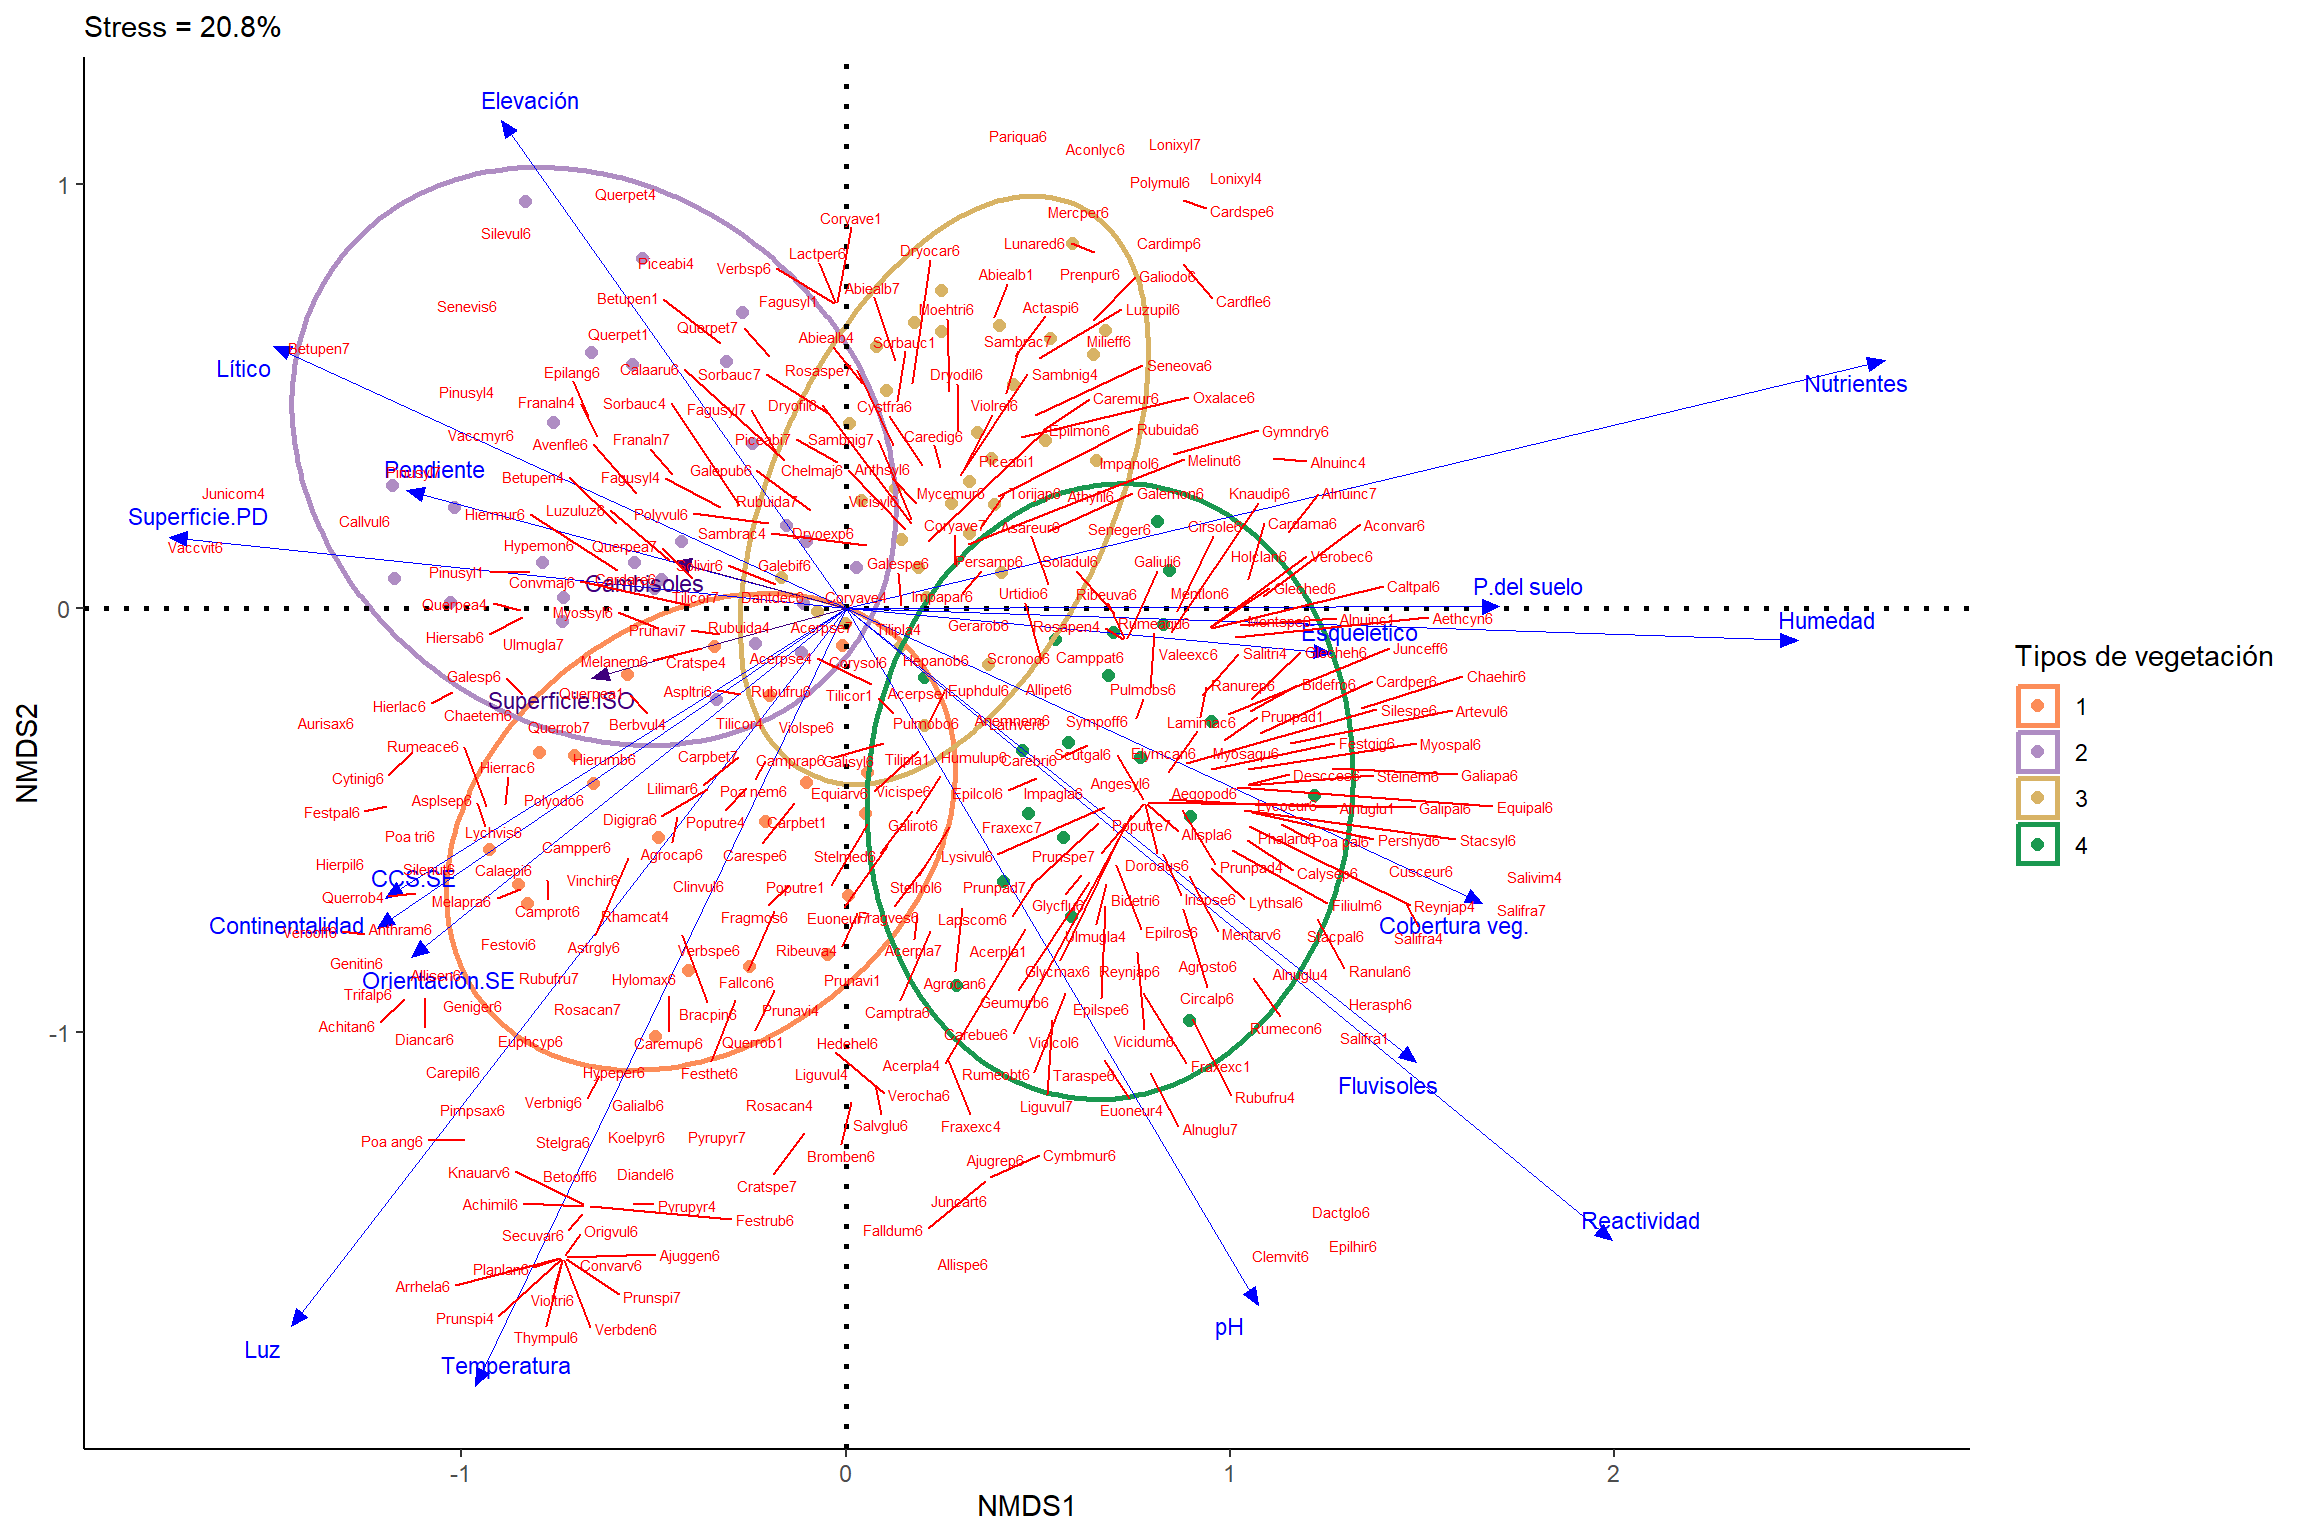
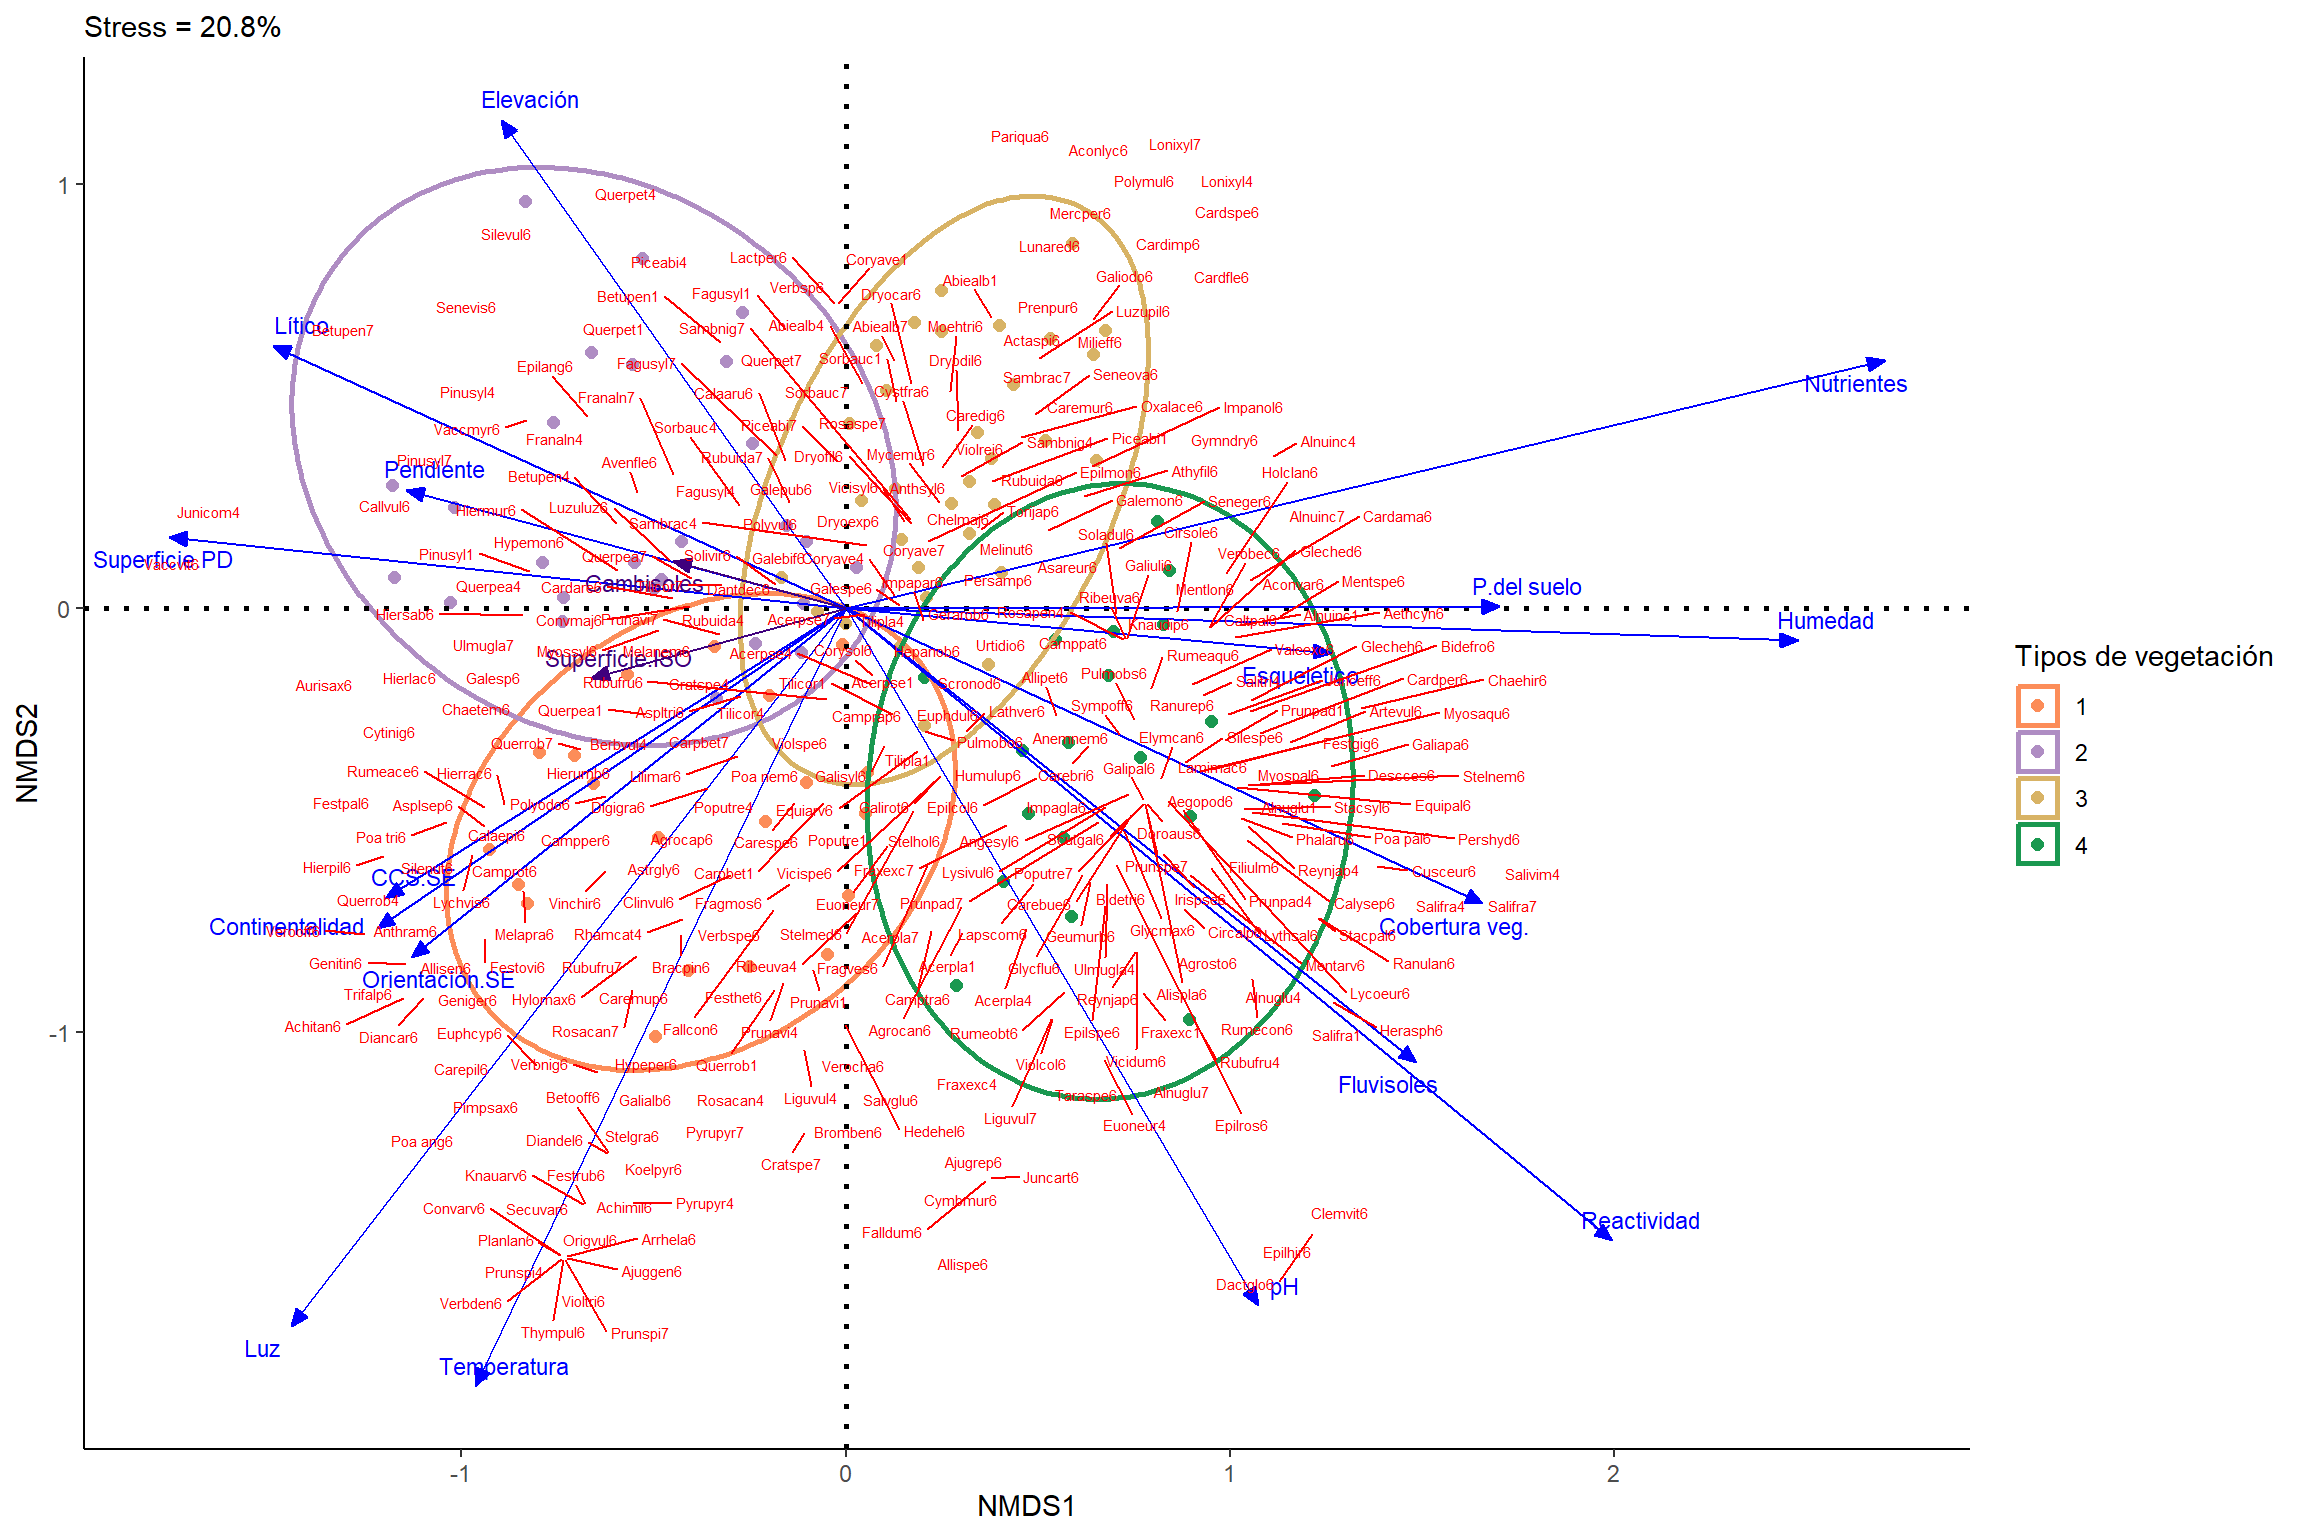
sí

diff --git a/Informe_2doseguimiento_V2.html b/Informe_2doseguimiento_V2.html
@@ -233,8 +233,8 @@ div.csl-indent {
 <section id="objetivos" class="level2">
 <h2 class="anchored" data-anchor-id="objetivos"><strong>Objetivos</strong></h2>
 <ul>
-<li><p>Evaluar la relación entre las variables ambientales evaluadas en los valles profundos del río Moldavia.</p></li>
-<li><p>Determinar diferencias en las condiciones ambientales de los tipos de vegetación presentes en los valles profundos del río Moldavia.</p></li>
+<li><p>Evaluar la relación entre las variables ambientales evaluadas en los valles profundos del rió de Moldavia.</p></li>
+<li><p>Determinar diferencias entre los tipos de vegetación en función de las condiciones ambientales evaluadas en los valles profundos del río de Moldavia.</p></li>
 <li><p>Evaluar el efecto de las condiciones ambientales sobre la composición y riqueza de plantas en los valles profundos del río Moldavia.</p></li>
 </ul>
 </section>
@@ -243,8 +243,8 @@ div.csl-indent {
 <section id="objetivo-1" class="level3">
 <h3 class="anchored" data-anchor-id="objetivo-1"><strong>1) Objetivo 1:</strong></h3>
 <ul>
-<li><p><strong>Ho</strong>: No existen relaciones entre las variables ambientales evaluadas en los valles profundos del río Moldavia.</p></li>
-<li><p><strong>Ha</strong>: Existen relaciones entre las variables ambientales evaluadas en los valles profundos del río Moldavia.</p></li>
+<li><p><strong>Ho</strong>: No existe relacion entre las variables ambientales evaluadas en los valles profundos del río Moldavia.</p></li>
+<li><p><strong>Ha</strong>: Existe por lo menos una relacion entre las variables ambientales evaluadas en los valles profundos del río Moldavia.</p></li>
 </ul>
 </section>
 <section id="objetivo-2" class="level3">
@@ -1020,12 +1020,12 @@ Figura&nbsp;11: Relación entre la cobertura de la especie Abies alba con respec
 <span id="cb22-13"><a href="#cb22-13" aria-hidden="true" tabindex="-1"></a>   <span class="co"># Ambiental . significativo </span></span>
 <span id="cb22-14"><a href="#cb22-14" aria-hidden="true" tabindex="-1"></a>  <span class="fu">geom_segment</span>(<span class="at">data =</span> coord.amb.sig,<span class="fu">aes</span>(<span class="at">x =</span> <span class="dv">0</span>, <span class="at">y =</span> <span class="dv">0</span>, <span class="at">xend =</span> NMDS1<span class="sc">*</span><span class="dv">3</span>, <span class="at">yend =</span> NMDS2<span class="sc">*</span><span class="dv">3</span>), </span>
 <span id="cb22-15"><a href="#cb22-15" aria-hidden="true" tabindex="-1"></a>               <span class="at">arrow =</span> <span class="fu">arrow</span>(<span class="at">angle=</span><span class="fl">22.5</span>,<span class="at">length =</span> <span class="fu">unit</span>(<span class="fl">0.25</span>,<span class="st">"cm"</span>),</span>
-<span id="cb22-16"><a href="#cb22-16" aria-hidden="true" tabindex="-1"></a>                             <span class="at">type =</span> <span class="st">"closed"</span>),<span class="at">linetype=</span><span class="dv">1</span>, <span class="at">size=</span><span class="fl">0.3</span>,<span class="at">colour =</span> <span class="st">"blue"</span>)<span class="sc">+</span></span>
+<span id="cb22-16"><a href="#cb22-16" aria-hidden="true" tabindex="-1"></a>                             <span class="at">type =</span> <span class="st">"closed"</span>),<span class="at">linetype=</span><span class="dv">1</span>, <span class="at">size=</span><span class="fl">0.5</span>,<span class="at">colour =</span> <span class="st">"blue"</span>)<span class="sc">+</span></span>
 <span id="cb22-17"><a href="#cb22-17" aria-hidden="true" tabindex="-1"></a>  <span class="fu">geom_text_repel</span>(<span class="at">data =</span> coord.amb.sig,<span class="fu">aes</span>(NMDS1<span class="sc">*</span><span class="dv">3</span>,NMDS2<span class="sc">*</span><span class="dv">3</span>,<span class="at">label=</span><span class="fu">row.names</span>(coord.amb.sig)),<span class="at">colour =</span> <span class="st">"blue"</span>, <span class="at">size =</span> <span class="dv">3</span>) <span class="sc">+</span></span>
 <span id="cb22-18"><a href="#cb22-18" aria-hidden="true" tabindex="-1"></a>   <span class="co"># Ambiental . no significativo </span></span>
 <span id="cb22-19"><a href="#cb22-19" aria-hidden="true" tabindex="-1"></a>  <span class="fu">geom_segment</span>(<span class="at">data =</span> coord.amb.nsig,<span class="fu">aes</span>(<span class="at">x =</span> <span class="dv">0</span>, <span class="at">y =</span> <span class="dv">0</span>, <span class="at">xend =</span> NMDS1<span class="sc">*</span><span class="dv">3</span>, <span class="at">yend =</span> NMDS2<span class="sc">*</span><span class="dv">3</span>), </span>
 <span id="cb22-20"><a href="#cb22-20" aria-hidden="true" tabindex="-1"></a>               <span class="at">arrow =</span> <span class="fu">arrow</span>(<span class="at">angle=</span><span class="fl">22.5</span>,<span class="at">length =</span> <span class="fu">unit</span>(<span class="fl">0.25</span>,<span class="st">"cm"</span>),</span>
-<span id="cb22-21"><a href="#cb22-21" aria-hidden="true" tabindex="-1"></a>                             <span class="at">type =</span> <span class="st">"closed"</span>),<span class="at">linetype=</span><span class="dv">1</span>, <span class="at">size=</span><span class="fl">0.3</span>,<span class="at">colour =</span> <span class="st">"#3f007d"</span>)<span class="sc">+</span></span>
+<span id="cb22-21"><a href="#cb22-21" aria-hidden="true" tabindex="-1"></a>                             <span class="at">type =</span> <span class="st">"closed"</span>),<span class="at">linetype=</span><span class="dv">1</span>, <span class="at">size=</span><span class="fl">0.5</span>,<span class="at">colour =</span> <span class="st">"#3f007d"</span>)<span class="sc">+</span></span>
 <span id="cb22-22"><a href="#cb22-22" aria-hidden="true" tabindex="-1"></a>  <span class="fu">geom_text_repel</span>(<span class="at">data =</span> coord.amb.nsig,<span class="fu">aes</span>(NMDS1<span class="sc">*</span><span class="dv">3</span>,NMDS2<span class="sc">*</span><span class="dv">3</span>,<span class="at">label=</span><span class="fu">row.names</span>(coord.amb.nsig)),<span class="at">colour =</span> <span class="st">"#3f007d"</span>, <span class="at">size =</span> <span class="dv">3</span>) <span class="sc">+</span></span>
 <span id="cb22-23"><a href="#cb22-23" aria-hidden="true" tabindex="-1"></a><span class="fu">labs</span>(<span class="at">color =</span> <span class="st">"Tipos de vegetación"</span>, <span class="at">shape =</span> <span class="st">"Tipos de vegetación"</span>, <span class="at">fill =</span> <span class="st">"Tipos de vegetación"</span>, <span class="at">subtitle =</span> <span class="fu">paste0</span>(<span class="st">"Stress = "</span>,<span class="fu">round</span>(spe.mds<span class="sc">$</span>stress,<span class="dv">3</span>)<span class="sc">*</span><span class="dv">100</span>,<span class="st">"%"</span>)) <span class="sc">+</span></span>
 <span id="cb22-24"><a href="#cb22-24" aria-hidden="true" tabindex="-1"></a>  </span>
